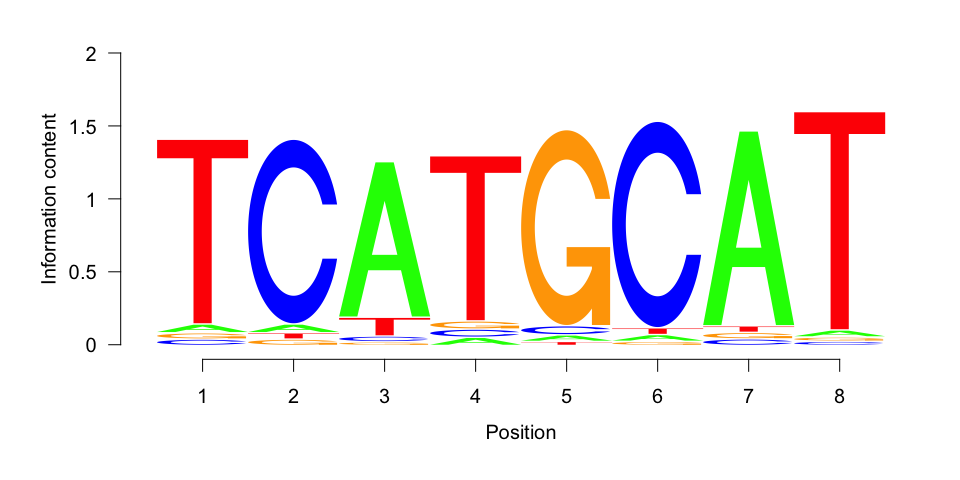
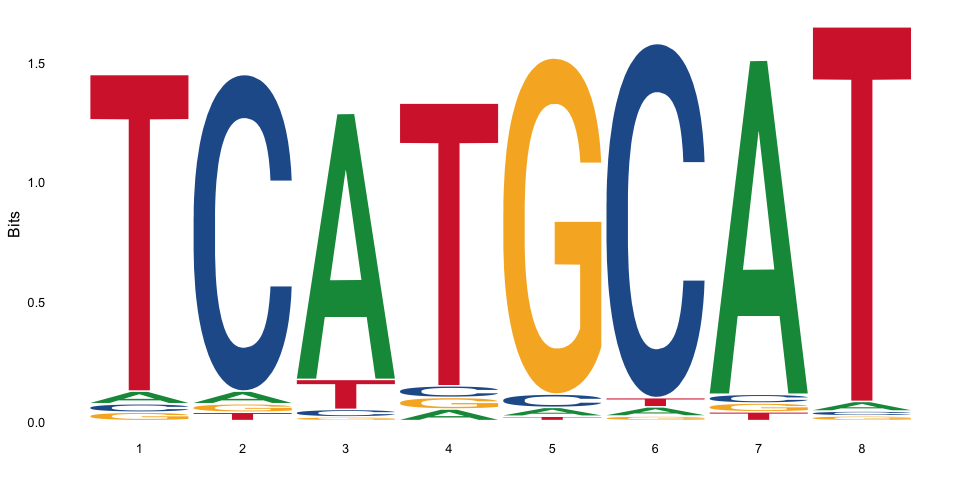
use ggseqlogo
more customisable & prettier

diff --git a/vignettes/vignette.md b/vignettes/vignette.md
@@ -9,10 +9,11 @@ Simulate Data
 We create 300 DNA sequences of length 200 with the motif "ATGCATGA" at the center of 20% of the sequences.
 
 ``` r
+library(MotifFinder)
 set.seed(42)
 simulated_sequences <- simulate_sequences(motif="ATGCATGA")
 
-str(sequences)
+str(simulated_sequences)
 ```
 
     ##  chr [1:300] "CCTCGGGAGGTGCTTCCATGCACCAGTCTCGCTGACAACGTTACTCCGCGTTTCAGGATGGCCGCATCGAAAATAGATGAGATGCGAAATGAACCGTGGGATGCATGAGAG"| __truncated__ ...
@@ -32,13 +33,14 @@ Plot the Motif(s) Found
 We can see that we have recovered the motif.
 
 ``` r
-seqLogo::seqLogo(get_PWM(motif_found))
+library(ggseqlogo)
+ggseqlogo(get_PWM(motif_found))
 ```
 
 ![](vignette_files/figure-markdown_github/unnamed-chunk-4-1.png)
 
 ``` r
-seqLogo::seqLogo(get_PWM(motif_found, complement=TRUE))
+ggseqlogo(get_PWM(motif_found, complement=TRUE))
 ```
 
 ![](vignette_files/figure-markdown_github/unnamed-chunk-4-2.png)

diff --git a/README.md b/README.md
@@ -26,7 +26,7 @@ simulated_sequences <- simulate_sequences(motif="ATGCATGA")
 motif_found <- findamotif(simulated_sequences, len=7)
 
 # visualise the motif found
-seqLogo::seqLogo(get_PWM(motif_found))
+ggseqlogo::ggseqlogo(get_PWM(motif_found))
 ```
 
 ![](vignettes/vignette_files/figure-markdown_github/unnamed-chunk-4-1.png)
